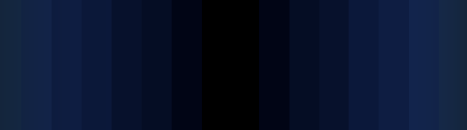
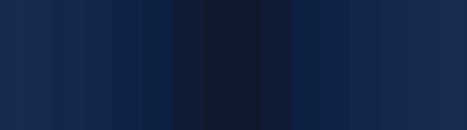
ADD Botao ALOALERJ

diff --git a/www/css/estilos.css b/www/css/estilos.css
@@ -4915,7 +4915,7 @@ body.bg_saudacao {
 
 
 a.menu-tvalerj.botao-azul.ui-link {
-    background: #172a4b url("../imagens/fundo-tvalerj.png") !important;
+    background: #172B53 url("../imagens/fundo-tvalerj.png") center center no-repeat !important;
     background-position: center center !important;
     color: #ffffff;
 }
@@ -4926,7 +4926,7 @@ a.menu-tvalerj.botao-azul.ui-link img {
 }
 
 a.menu-radioalerj.botao-azul.ui-link {
-    background: #172a4b url("../imagens/fundo-radioalerj.png") !important;
+    background: #172B53 url("../imagens/fundo-radioalerj.png") center center no-repeat !important;
     background-position: center center !important;
     color: #ffffff;
 }
@@ -4937,12 +4937,20 @@ a.menu-radioalerj.botao-azul.ui-link img {
 }
 
 a.menu-noticias.botao-azul.ui-link {
-    background: #172a4b url("../imagens/fundo-noticias.png");
-    background-position: center center !important;
+    background: #172B53 url("../imagens/fundo-noticias.png") center center no-repeat !important;
     color: #ffffff;
 }
 
 a.menu-noticias.botao-azul.ui-link img {
     max-height: 20px;
     margin: 15px 0 15px 0;
+}
+
+
+a.menu-aloalerj.botao-azul.ui-link {
+}
+
+a.menu-aloalerj.botao-azul.ui-link img {
+    max-height: 80px;
+    margin: 0px 0 0px 0;
 }

diff --git a/www/inicio.html b/www/inicio.html
@@ -160,6 +160,8 @@
             		<li><span class="fio_01"></span><a class="menu-agenda" >AGENDA</a><span class="fio_02"></span></li>
 
                     <li><span class="fio_01"></span><a class="menu-transparencia" >TRANSPARÊNCIA</a><span class="fio_02"></span></li>
+
+                    <li><span class="fio_01"></span><a class="menu-aloalerj botao-azul"><img src="imagens/logo-aloalerj.svg"></a><span class="fio_02"></span></li>
             	</ul>
             </div>        
         </div>
